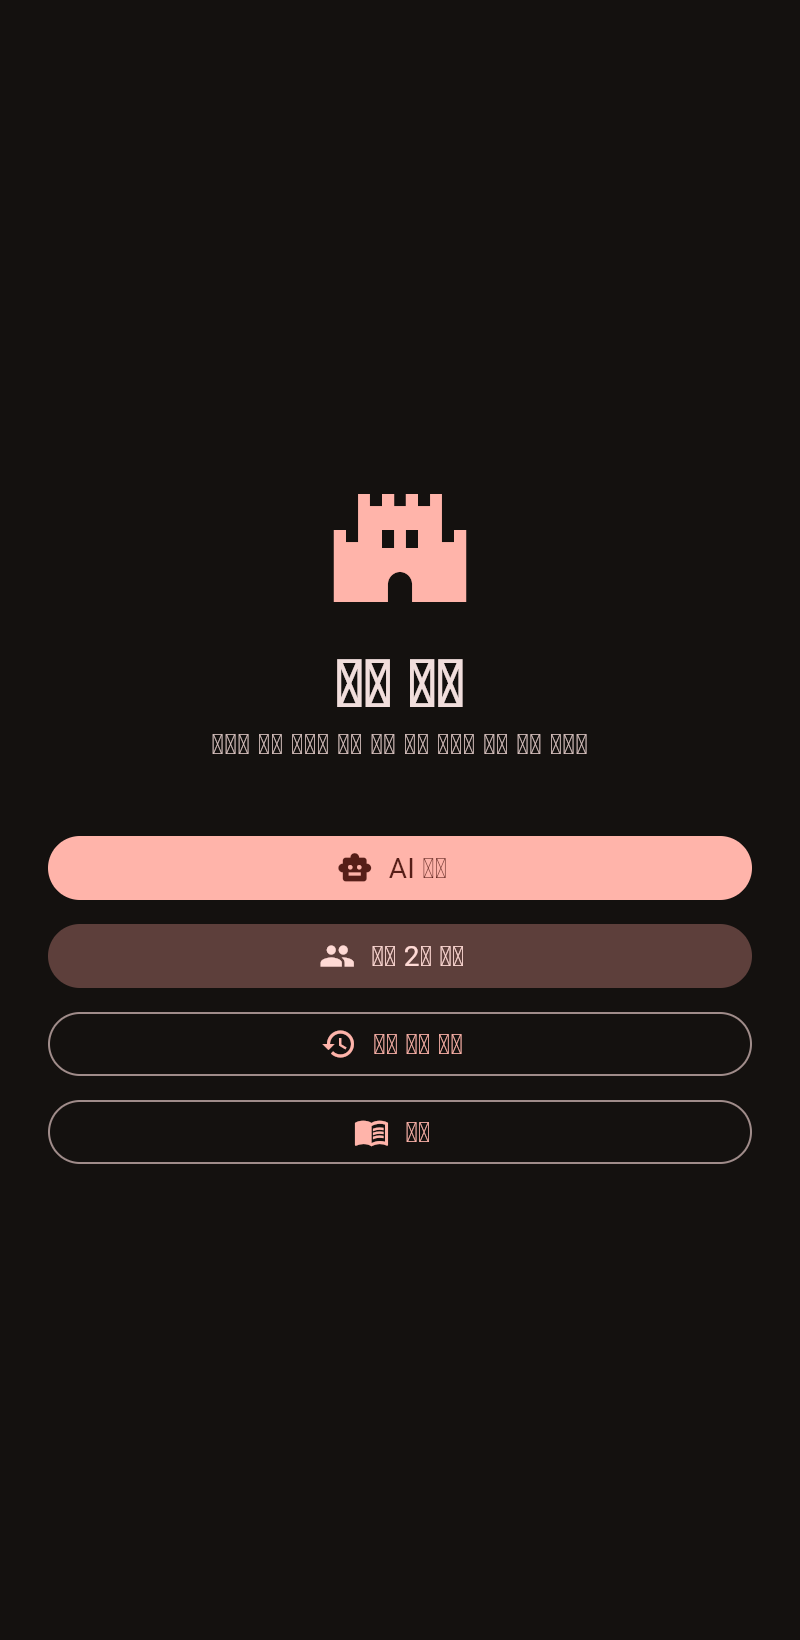
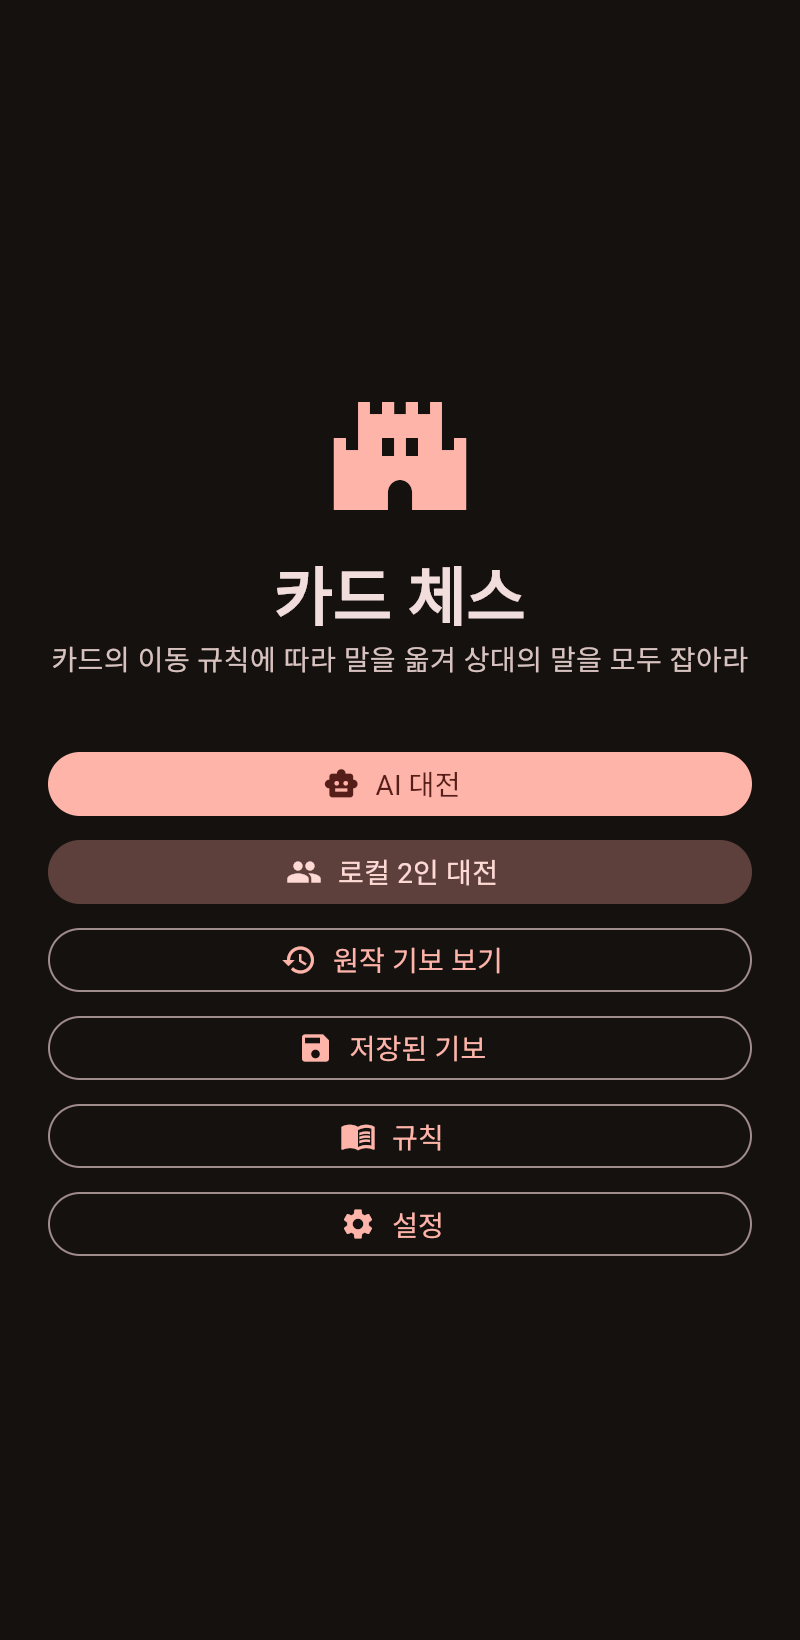
feat: AI 힌트(추천 수), 앱바 제목 축약, 스크린샷·문서 갱신
Claude-Session: https://claude.ai/code/session_01P5pc1zAPmciJX6evtuG8k9

diff --git a/lib/state/game_controller.dart b/lib/state/game_controller.dart
@@ -100,6 +100,10 @@ class GameController extends ChangeNotifier {
   bool aiThinking = false;
   int _aiToken = 0;
 
+  /// AI 가 추천한 수. 사용자가 다음 행동을 하면 사라진다.
+  Move? hintMove;
+  bool hintLoading = false;
+
   String nameOf(PlayerColor c) => match.playerNames[c] ?? c.korean;
 
   PlayerColor get placer => match.nextCardPlacer;
@@ -194,8 +198,35 @@ class GameController extends ChangeNotifier {
   bool get mustPass =>
       isHumanTurn && _legal.isNotEmpty && _legal.every((m) => m.isPass);
 
+  /// 현재 국면에서 AI 추천 수를 계산해 [hintMove] 에 넣는다.
+  Future<void> requestHint() async {
+    final g = game;
+    if (g == null || g.isOver || !isHumanTurn || aiThinking || hintLoading) {
+      return;
+    }
+    hintLoading = true;
+    notifyListeners();
+    final token = ++_aiToken;
+    final move = await compute(
+      _moveEntry,
+      _MoveParams(AiLevel.hard, g, _random.nextInt(1 << 31)),
+    );
+    if (token != _aiToken || game != g) {
+      hintLoading = false;
+      return;
+    }
+    hintLoading = false;
+    hintMove = move;
+    if (move != null && !move.isPass) {
+      selectedCard = move.card;
+      selectedFrom = move.from;
+    }
+    notifyListeners();
+  }
+
   void selectCard(CardType card) {
     if (!isHumanTurn || aiThinking) return;
+    hintMove = null;
     if (selectedCard == card) {
       selectedCard = null;
     } else {
@@ -212,6 +243,7 @@ class GameController extends ChangeNotifier {
   /// 칸 탭 처리. 이동/선택/취소를 결정한다. 카드 선택이 모호하면 후보를 돌려준다.
   List<Move> tapSquare(Pos pos) {
     if (!isHumanTurn || aiThinking) return const [];
+    hintMove = null;
     final g = game!;
     final targets = highlightedMoves.where((m) => m.to == pos).toList();
     if (targets.isNotEmpty) {
@@ -238,6 +270,7 @@ class GameController extends ChangeNotifier {
     lastMove = move;
     selectedCard = null;
     selectedFrom = null;
+    hintMove = null;
     if (haptics) {
       if (move.capture) {
         HapticFeedback.mediumImpact();
@@ -305,6 +338,7 @@ class GameController extends ChangeNotifier {
     lastMove = back.history.isEmpty ? null : back.history.last;
     selectedCard = null;
     selectedFrom = null;
+    hintMove = null;
     notifyListeners();
   }
 

diff --git a/lib/ui/game_screen.dart b/lib/ui/game_screen.dart
@@ -217,9 +217,7 @@ class _GameScreenState extends State<GameScreen> {
     final scheme = Theme.of(context).colorScheme;
     return Scaffold(
       appBar: AppBar(
-        title: Text(
-          '${c.match.sets.length + (g.isOver ? 0 : 1)}세트 · ${c.mode.label}',
-        ),
+        title: Text('${c.match.sets.length + (g.isOver ? 0 : 1)}세트'),
         actions: [
           IconButton(
             tooltip: '무르기',
@@ -231,6 +229,18 @@ class _GameScreenState extends State<GameScreen> {
             onPressed: () => _copyKifu(context),
             icon: const Icon(Icons.content_copy),
           ),
+          if (!g.isOver && c.mode is AiMode)
+            IconButton(
+              tooltip: 'AI 힌트',
+              onPressed: c.isHumanTurn && !c.hintLoading ? c.requestHint : null,
+              icon: c.hintLoading
+                  ? const SizedBox(
+                      width: 18,
+                      height: 18,
+                      child: CircularProgressIndicator(strokeWidth: 2),
+                    )
+                  : const Icon(Icons.lightbulb_outline),
+            ),
           if (!g.isOver)
             IconButton(
               tooltip: '기권',
@@ -253,6 +263,7 @@ class _GameScreenState extends State<GameScreen> {
                     : const {},
                 targets: c.highlightedMoves,
                 lastMove: c.lastMove,
+                hint: c.hintMove,
                 onTap: _onTapSquare,
               ),
             );
@@ -299,6 +310,8 @@ class _GameScreenState extends State<GameScreen> {
       text = '${c.nameOf(g.result!.winner)} 승리 · ${g.result!.reason.korean}';
     } else if (c.aiThinking) {
       text = 'AI 생각 중…';
+    } else if (c.hintMove != null) {
+      text = '추천 수: ${c.hintMove!.notation}';
     } else if (c.mustPass) {
       text = '둘 수 있는 수가 없습니다. 교환할 카드를 고르세요.';
     } else if (c.selectedCard == null && c.selectedFrom == null) {

diff --git a/lib/ui/widgets/board_widget.dart b/lib/ui/widgets/board_widget.dart
@@ -14,6 +14,7 @@ class BoardWidget extends StatefulWidget {
     this.movable = const {},
     this.targets = const [],
     this.lastMove,
+    this.hint,
     this.onTap,
     this.showCoordinates = true,
   });
@@ -23,6 +24,9 @@ class BoardWidget extends StatefulWidget {
   final Set<Pos> movable;
   final List<Move> targets;
   final Move? lastMove;
+
+  /// AI 추천 수. 출발/도착 칸에 점선 테두리를 그린다.
+  final Move? hint;
   final ValueChanged<Pos>? onTap;
   final bool showCoordinates;
 
@@ -148,6 +152,10 @@ class _BoardWidgetState extends State<BoardWidget> {
           widget.lastMove != null &&
           !widget.lastMove!.isPass &&
           (widget.lastMove!.from == p || widget.lastMove!.to == p);
+      final isHint =
+          widget.hint != null &&
+          !widget.hint!.isPass &&
+          (widget.hint!.from == p || widget.hint!.to == p);
       final o = _offsetOf(p, cell);
       squares.add(
         Positioned(
@@ -175,6 +183,17 @@ class _BoardWidgetState extends State<BoardWidget> {
                       ),
                     ),
                   if (isLast) Container(color: AppColors.lastMove),
+                  if (isHint)
+                    Container(
+                      margin: EdgeInsets.all(cell * 0.06),
+                      decoration: BoxDecoration(
+                        border: Border.all(
+                          color: AppColors.hint,
+                          width: cell * 0.07,
+                        ),
+                        borderRadius: BorderRadius.circular(cell * 0.12),
+                      ),
+                    ),
                   if (widget.selectedFrom == p)
                     Container(color: AppColors.selected),
                   if (widget.movable.contains(p) && widget.selectedFrom != p)

diff --git a/lib/ui/theme.dart b/lib/ui/theme.dart
@@ -10,6 +10,7 @@ class AppColors {
   static const capture = Color(0x99D32F2F);
   static const selected = Color(0xAAFFC107);
   static const lastMove = Color(0x553F51B5);
+  static const hint = Color(0xFF29B6F6);
 }
 
 ThemeData buildTheme() {

diff --git a/README.md b/README.md
@@ -2,14 +2,18 @@
 
 피의 게임 파이널 3라운드 **카드 체스**를 Flutter 앱으로 구현한 프로젝트. iOS / Android / Web.
 
-| 홈 | 카드 배치 | 대전 | AI 대전 |
-|---|---|---|---|
-| ![home](docs/screenshots/home.png) | ![setup](docs/screenshots/setup.png) | ![game](docs/screenshots/game.png) | ![ai](docs/screenshots/ai.png) |
+| 홈 | 카드 배치 | 대전 |
+|---|---|---|
+| ![home](docs/screenshots/home.png) | ![setup](docs/screenshots/setup.png) | ![game](docs/screenshots/game.png) |
+
+| AI 대전 | AI 힌트 | 설정 |
+|---|---|---|
+| ![ai](docs/screenshots/ai.png) | ![hint](docs/screenshots/hint.png) | ![settings](docs/screenshots/settings.png) |
 
 ## 기능
 
 - 로컬 2인 대전 (한 기기에서 번갈아 플레이), 3세트 매치
-- AI 대전 (쉬움 / 보통 / 어려움) — 네가맥스 + 알파베타 탐색, 카드 배치까지 AI가 결정
+- AI 대전 (쉬움 / 보통 / 어려움) — 네가맥스 + 알파베타 탐색, 카드 배치까지 AI가 결정. AI 힌트(추천 수) 제공
 - 후공의 카드 배치 화면 (탭 / 드래그)
 - 원작 기보(1세트 23수, 2세트 22수) 재생
 - 기보 자동 저장 / 목록 / 붙여넣기, 기보 복사(텍스트), 무르기, 기권, 규칙 화면
